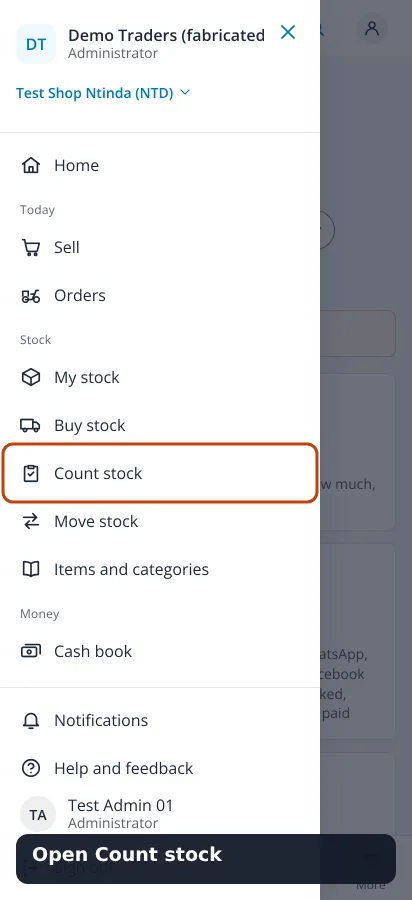
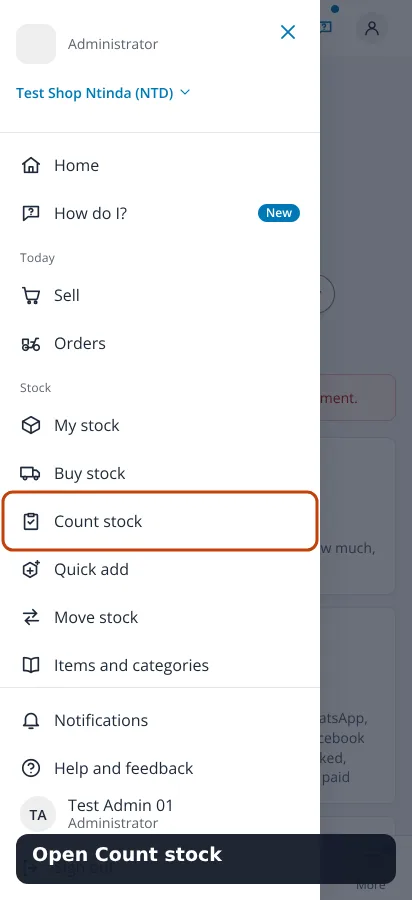
Issue #728: docs, pictures and the help article for where is my stock
The endpoint catalogue, the permission notes, FR-RET-08 and the retail UI
notes describe the unfinished counts, the stock at other shops and Save the
count. The Count stock help article and its pictures say Save the count.
Phone and laptop pictures in docs/ui/where-is-my-stock come from
scripts/where-is-my-stock-screenshots.mjs, which also checks the 48px
targets and that no page scrolls sideways.

diff --git a/frontend/src/areas/staff/retail/quick-add.dom.test.tsx b/frontend/src/areas/staff/retail/quick-add.dom.test.tsx
@@ -120,7 +120,7 @@ describe('quick add', () => {
     const [body, key] = quickAdd.mock.calls[0] as [Record<string, unknown>, string];
     expect(body).toEqual({ description: 'Test Bulb 60W', sell_minor: 6000, cost_minor: 4000, category_id: 'c1', unit_id: 'u1', qty: '600.000', branch_id: branch?.id });
     expect(key).toMatch(/^[0-9a-f-]{36}$/);
-    expect(screen.getByTestId('qa-done').textContent).toBe(`Added 600 pc at ${branchLabel(branch)}. Test Bulb 60W is saved.`);
+    expect(screen.getByTestId('qa-done').textContent).toBe(`Added 600 pcs at ${branchLabel(branch)}. Test Bulb 60W is saved.`);
     fireEvent.click(screen.getByRole('button', { name: 'Sell it' }));
     expect(onSell).toHaveBeenCalledWith('p1', branch?.id);
   });
@@ -176,7 +176,7 @@ describe('quick add', () => {
     expect(body).toEqual({ product_id: 'p9', qty: '8.000', branch_id: branch?.id });
     // The server answered the first request, so the second is a new one.
     expect(key).not.toBe((quickAdd.mock.calls[0] as [unknown, string])[1]);
-    expect(screen.getByTestId('qa-done').textContent).toBe(`Added 8 pc of Test Rice 1kg at ${branchLabel(branch)}. 58 pc there now.`);
+    expect(screen.getByTestId('qa-done').textContent).toBe(`Added 8 pcs of Test Rice 1kg at ${branchLabel(branch)}. 58 pcs there now.`);
     expect(screen.queryByTestId('qa-adds-to')).toBeNull();
   });
 
@@ -310,7 +310,7 @@ describe('quick add', () => {
     fireEvent.click(screen.getByRole('button', { name: 'Add' }));
     await screen.findByTestId('qa-done');
     expect((quickAdd.mock.calls[1] as [Record<string, unknown>])[0]).toMatchObject({ branch_id: branch?.id });
-    expect(screen.getByTestId('qa-done').textContent).toBe(`Added 10 pc at ${branchLabel(branch)}. Test Kettle is saved.`);
+    expect(screen.getByTestId('qa-done').textContent).toBe(`Added 10 pcs at ${branchLabel(branch)}. Test Kettle is saved.`);
   });
 
   it('offers Start again only after the server refused for certain, and it clears the form', async () => {
@@ -914,9 +914,10 @@ describe('the words and defaults', () => {
 
   // Issue #728: the line leads with where the stock went, so an owner looking at another shop knows where to find it.
   it('says what was added and where, and nothing about stock when none was added', () => {
-    expect(addedLine({ description: 'Test Bulb', unit: 'pc', item_made: true, qty: '600' }, 'Test Store')).toBe('Added 600 pc at Test Store. Test Bulb is saved.');
+    expect(addedLine({ description: 'Test Bulb', unit: 'piece', item_made: true, qty: '600' }, 'Test Store')).toBe('Added 600 pieces at Test Store. Test Bulb is saved.');
+    expect(addedLine({ description: 'Test Bulb', unit: 'piece', item_made: true, qty: '1' }, 'Test Store')).toBe('Added 1 piece at Test Store. Test Bulb is saved.');
     expect(addedLine({ description: 'Test Bulb', item_made: true }, 'Test Store')).toBe('Test Bulb added.');
-    expect(addedLine({ description: 'Test Bulb', unit: 'pc', item_made: false, qty: '10', total_qty: '60' }, 'Test Store')).toBe('Added 10 pc of Test Bulb at Test Store. 60 pc there now.');
+    expect(addedLine({ description: 'Test Bulb', unit: 'piece', item_made: false, qty: '10', total_qty: '60' }, 'Test Store')).toBe('Added 10 pieces of Test Bulb at Test Store. 60 pieces there now.');
   });
 });
 

diff --git a/frontend/src/areas/staff/retail/quick-add.tsx b/frontend/src/areas/staff/retail/quick-add.tsx
@@ -5,7 +5,7 @@ import { RETAIL_CURRENCY, RetailError, retail, type QuickAdd, type QuickAddReque
 import { IDEMPOTENCY_UNSURE_CODES } from '../../../api/retail-errors';
 import { branchLabel } from '../../../auth/branch';
 import { AddsTo } from '../branch-picker';
-import { WORDS } from '../../../app/glossary';
+import { WORDS, plural } from '../../../app/glossary';
 import { BusyButton } from '../../../app/ui/BusyButton';
 import { EmptyChoice } from '../../../app/ui/EmptyChoice';
 import { Field, FieldsNeededNote, focusFirstMissing } from '../../../app/ui/Field';
@@ -65,7 +65,7 @@ export function pieceUnit(units: Unit[]): Unit | undefined {
 export function addedLine(done: QuickAdd, where: string): string {
   const name = done.description ?? 'The item';
   if (done.qty === undefined) return `${name} added.`;
-  const of = (qty: string | undefined) => `${qty ?? ''} ${done.unit ?? ''}`.trim();
+  const of = (qty: string | undefined) => `${qty ?? ''} ${done.unit && Number(qty) !== 1 ? plural(done.unit) : (done.unit ?? '')}`.trim();
   return done.item_made ? `Added ${of(done.qty)} at ${where}. ${name} is saved.` : `Added ${of(done.qty)} of ${name} at ${where}. ${of(done.total_qty)} there now.`;
 }
 

diff --git a/frontend/src/app/ui/design-guard.test.ts b/frontend/src/app/ui/design-guard.test.ts
@@ -552,7 +552,8 @@ const ADD_IN_PLACE_EXEMPT: Record<string, string> = {
   'areas/staff/retail/account.tsx branches': BRANCH,
   'areas/staff/retail/purchasing-ui.tsx branches': BRANCH,
   'areas/staff/retail/return-new.tsx branches.filter((b) => b.stocks_goods !== false)': BRANCH,
-  'areas/staff/retail/quick-add.tsx places': `Where holds only the branches this person may add stock at; ${BRANCH}`,
+  // Issue #728: Quick add's Where became AddsTo, the shop beside How many with Change, shared with Add an item.
+  'areas/staff/branch-picker.tsx places': `Where holds only the branches this person may add stock at; ${BRANCH}`,
   'areas/staff/retail/catalogue-barcodes.tsx packs': ITEM_PACK,
   'areas/staff/retail/goods-receive.tsx line.packs': ITEM_PACK,
   'areas/staff/retail/purchase-order-form.tsx line.packs': ITEM_PACK,

diff --git a/frontend/src/areas/staff/retail/unfinished-counts.tsx b/frontend/src/areas/staff/retail/unfinished-counts.tsx
@@ -58,7 +58,8 @@ function UnfinishedCount({ count, branchId, onFinish, onThrown }: { count: OpenS
     },
   });
   return (
-    <div className="alert alert-warning stack" data-testid={`unfinished-${id}`}>
+    <div className="alert alert-warning" data-testid={`unfinished-${id}`}>
+      <div className="stack">
       <p>{unfinishedWords(count, me.user_id, businessZone())}</p>
       {asking ? (
         <div role="group" aria-label="Throw this count away?" className="stack">
@@ -77,6 +78,7 @@ function UnfinishedCount({ count, branchId, onFinish, onThrown }: { count: OpenS
         </p>
       )}
       <Problem error={drop.error} />
+      </div>
     </div>
   );
 }

diff --git a/frontend/src/areas/staff/retail/stocktake.dom.test.tsx b/frontend/src/areas/staff/retail/stocktake.dom.test.tsx
@@ -27,7 +27,8 @@ vi.mock('../../../api/retail', async (original) => {
     getStocktake: (...a: unknown[]) => getStocktake(...a), unfinishedStocktakes: (...a: unknown[]) => unfinishedStocktakes(...a) } };
 });
 const getStocktake = vi.fn();
-const unfinishedStocktakes = vi.fn(() => Promise.resolve([] as unknown[]));
+const unfinishedStocktakes = vi.fn();
+unfinishedStocktakes.mockResolvedValue([]);
 
 const { StocktakePage, StocktakeReview } = await import('./stocktake');
 

diff --git a/frontend/src/areas/staff/branch-picker.tsx b/frontend/src/areas/staff/branch-picker.tsx
@@ -195,6 +195,7 @@ export function AddsTo({ id, lead = 'Adds to', value, places, onChoose }: {
   return (
     <p className="adds-to" data-testid={`${id}-adds-to`}>
       <span>{lead} <strong>{name}</strong></span>
+      {/* empty: drawn only with more than one place to choose; the form shows its EmptyChoice when it has none. */}
       {onChoose && places.length > 1 && (
         <span className="btn adds-to-change">
           Change

diff --git a/docs/sdd/03-functional-requirements.md b/docs/sdd/03-functional-requirements.md
@@ -956,7 +956,7 @@ by `docs/specs/retail-pilot-data-dictionary.md`. `MVP` here is the retail first 
 | FR-RET-05 | A credit sale shall record the buyer and a proposed payment date. Payments against it reduce the trade debtor balance and may be partial. | A payment above the balance is refused; the sale balance and the debtors account move together. | MVP |
 | FR-RET-06 | A restock shall record the supplier and the quantity per branch. A cost and sell price on its lines update the product (the cost as its last price paid) and its price history in the same transaction as the movements, and the cost re-averages the receiving branch (FR-RET-69). | The latest restock line wins, including two lines for one product in one request; the history rows name the purchase. | MVP |
 | FR-RET-07 | Usage and damage reports shall reduce stock, record a reason and be valued at the branch's average cost at the time (ADR-079). | Each line carries its unit cost snapshot; the shrinkage journal equals the sum of the lines. | MVP |
-| FR-RET-08 | A stock-take shall record counted quantities per branch and product with the balance at the time of the count (`expected_qty`), show the variance, and on commit write an adjustment movement per line of counted less `expected_qty`, so sales, restocks, usage and voids recorded between count and commit stay in the balance. | Committing needs `retail.stocktake.commit`; the adjustment is applied under the balance lock; a sale between count and commit is not undone and posts no gain; when movements since the count would make the adjusted balance negative, the commit is refused with 409 `stock_moved_since_count` naming the lines to recount and nothing is written; a committed stock-take cannot be committed again. Only the items counted are sent: an item left empty is not counted and keeps its balance. On the review, a line that takes an item holding stock to 0 or to less than half of it says how much it removes and needs a tick before the count is committed (issue #629). The commit sends the product ids of the ticked lines, and the server refuses it with 409 `big_drop_not_acknowledged` naming the lines (the first five, then how many more, issue #656) while any such line is not among them, so a stale draft from another tab or a direct call never writes a big drop unasked (issue #636). A draft can be discarded without writing stock, by its maker or anyone who may count at its branch; a discarded count cannot be committed (409 `stocktake_discarded`), and a committed one cannot be discarded (issue #656). The count screen keeps each count on the device as it is typed, per business, branch and person, restores it when the page opens again, merges two tabs of the same count item by item, and sends nothing to the server before Review the difference; it never commits without the person's Commit the count (issue #681). | MVP |
+| FR-RET-08 | A stock-take shall record counted quantities per branch and product with the balance at the time of the count (`expected_qty`), show the variance, and on commit write an adjustment movement per line of counted less `expected_qty`, so sales, restocks, usage and voids recorded between count and commit stay in the balance. | Committing needs `retail.stocktake.commit`; the adjustment is applied under the balance lock; a sale between count and commit is not undone and posts no gain; when movements since the count would make the adjusted balance negative, the commit is refused with 409 `stock_moved_since_count` naming the lines to recount and nothing is written; a committed stock-take cannot be committed again. Only the items counted are sent: an item left empty is not counted and keeps its balance. On the review, a line that takes an item holding stock to 0 or to less than half of it says how much it removes and needs a tick before the count is committed (issue #629). The commit sends the product ids of the ticked lines, and the server refuses it with 409 `big_drop_not_acknowledged` naming the lines (the first five, then how many more, issue #656) while any such line is not among them, so a stale draft from another tab or a direct call never writes a big drop unasked (issue #636). A draft can be discarded without writing stock, by its maker or anyone who may count at its branch; a discarded count cannot be committed (409 `stocktake_discarded`), and a committed one cannot be discarded (issue #656). The count screen keeps each count on the device as it is typed, per business, branch and person, restores it when the page opens again, merges two tabs of the same count item by item, and sends nothing to the server before Review the difference; it never commits without the person's Save the count (issue #681; called Commit the count until issue #728). A draft left without saving is listed for its branch to anyone who may count there, and My stock and Count stock offer to finish it or, after a confirm, throw it away (issue #728). | MVP |
 | FR-RET-09 | Valuation shall show, per branch and product, the quantity times cost and the quantity times sell price, with totals. | Cost columns are absent for a user without `retail.profit.read`. | MVP |
 | FR-RET-10 | Daily profit per branch and day shall equal sale line totals less their cost snapshots less usage and damage at cost plus the net stock-take difference at cost (a loss is negative, a gain positive, shown as its own line on the day the stock-take is committed, #121), and be readable only with `retail.profit.read`. | Voided sales are excluded; profit is read from the append-only sale lines, not the sale header, and a changed header leaves it unchanged; with `credit_sale_recognition` `on_payment` the figures are those of the money received (FR-RET-42); a test with fabricated figures checks the arithmetic; a sales user gets 403. | MVP |
 | FR-RET-11 | Sales, their cost, restocks, usage, stock-take adjustments and voids shall post balanced entries to the right branch through `post_entry`, in the same transaction as the event. | One entry per branch per event; the database balance trigger holds; a void posts a reversing entry for each original entry. | MVP |

diff --git a/docs/sdd/07-api-design.md b/docs/sdd/07-api-design.md
@@ -1128,6 +1128,7 @@ branch when the permission's scope has exactly one; otherwise 422 `branch_requir
 | GET | `/retail/stock/movements` | `retail.stock.read` | `branch_id` (repeatable, scoped), `product_id`, `from`, `to`, `newest_first` (default false; reverses the order and the cursor), `limit`, `cursor`. Row: `{id, at, branch_id, product_id, kind, qty, unit_cost_minor*, source_type, source_id, reverses_movement_id, historical, note, by, correction?}`; `correction` is present on a quantity correction (issue #351): `{reason_code, old_qty, new_qty}`. A void of a restock is an `adjustment` of `source_type` `retail.purchase_void` |
 | POST | `/retail/stock/corrections` | `retail.stocktake.commit` at the branch | **M** (issue #351, ADR-044, FR-RET-46). `{branch_id, product_id, new_qty, expected_qty, reason_code: entry_mistake or miscount, note?}`: `new_qty` is the right quantity, not the difference, and `expected_qty` the quantity the form showed (409 `stock_moved` when the balance differs under its lock; 409 `stocktake_in_progress` while a draft stock-take of the branch counts the item). Under the balance row's lock posts one `adjustment` movement for the difference at the product's cost (source type `retail.stock_correction`), a `retail_stock_corrections` row, the ledger entry against inventory and stock shrinkage, and the audit entry `retail.stock.corrected`; 201 `{id, branch_id, product_id, code, description, old_qty, new_qty, reason_code, note, movement_id, at, by}`. 422 `quantity_unchanged`, `unknown_product`, `branch_not_stocking`; a missing `Idempotency-Key` is 422 `idempotency_key_missing`. Not shrinkage and not usage in any report. While stock corrections ask for approval (ADR-091) and the value of the difference at the branch's average cost reaches the amount: 202 `ApprovalWaiting {approval_id, action_type: retail_stock_correction, amount_minor, currency}` and the quantity is unchanged; on approval by an administrator (`core.settings.manage`) the correction runs in the maker's name only if the quantity is still `expected_qty`, else the request is stale with 409 `stock_moved` |
 | POST | `/retail/stocktakes` | `retail.stocktake.commit` | `{branch_id?, lines: [{product_id, counted_qty}], note?}`; returns each line's `expected_qty` and `variance_qty`. FR-RET-08 |
+| GET | `/retail/stocktakes/unfinished` | `retail.stocktake.commit` at the branch | Issue #728. `branch_id` (needed when the caller's scope covers more than one branch). The branch's draft counts, newest first, at most 20: `[{id, branch_id, created_at, created_by, lines}]`, `lines` the number of items counted. A branch outside the caller's `retail.stocktake.commit` scope is 404 `unknown_branch` |
 | GET | `/retail/stocktakes/{stocktake_id}` | `retail.stock.read` | Draft, committed or discarded |
 | POST | `/retail/stocktakes/{stocktake_id}/commit` | `retail.stocktake.commit` | Adjustment movements of counted less `expected_qty` (the variance when counted, so later movements stay in the balance), posted at cost; 409 `stocktake_committed`; 409 `stock_moved_since_count` when later movements would make an adjusted balance negative (recount those lines); the optional body `acknowledged` lists the product ids of the big drops ticked on the review (a count to 0, or to less than half, of an item holding stock), and 409 `big_drop_not_acknowledged` names any big drop missing from it, the first five and then how many more (issues #636, #656); 409 `stocktake_discarded` for a discarded count |
 | POST | `/retail/stocktakes/{stocktake_id}/discard` | `retail.stocktake.commit`; the count's maker, or at its branch | Issue #656. Ends a draft without writing stock (status `discarded`, audit `retail.stocktake.discarded`), so it no longer blocks a correction (`stocktake_in_progress`) or the closing of its branch. Idempotent: a discarded count is returned unchanged with no second audit entry. 409 `stocktake_committed` for a committed count; 404 for someone else's count at a branch outside the caller's `retail.stocktake.commit` scope |

diff --git a/docs/specs/retail-ui-notes.md b/docs/specs/retail-ui-notes.md
@@ -1572,7 +1572,7 @@ the items show only while you search, and go away once one is picked. Every item
   later discard never takes a draft whose commit is still on its way, so a connection that comes back between the two tries
   leaves the count to be sent again, and Sell opened again (the screen left and come back to, or a branch switch) leaves the
   commit of the Sell it replaced to land and stand (issue #664). A sale cleared or a screen left before the lost answer hears nothing of it.
-  Count stock shows a discarded count as cancelled, never as committed, with no tick and no Commit the count; the refusal of
+  Count stock shows a discarded count as cancelled, never as committed, with no tick and no Save the count; the refusal of
   a commit on it (409 `stocktake_discarded`) says cancelled too, so the owner reads one word for it (issue #664).
 - **Scan box.** Unchanged (ADR-070 decision 11, owner decision D7): a scanner types only into the Scan box, which adds the item or one more.
 - **Tours.** `retail-sales` version 16, `page-stocktake` 3 (the search on top and the list Not counted yet), `page-restock` 3, `page-usage` 2, `page-transfer` 3,
@@ -1802,3 +1802,27 @@ ADR-070, FR-RET-68, migration `V87`. Generic for every business; no capability s
   (`NextSteps`, `.next-steps`; a stack of full width buttons on a phone), each only for someone who may use it there.
 - The list, with who sees each button, is `docs/ui/next-steps.md`, the single source; `next-steps.dom.test.tsx` holds the code
   to it and fails on a success screen drawn with no next step.
+
+## Where is my stock (issue #728)
+
+A shop owner added his items with Quick add at his store, looked at My stock in his main shop, saw 0 and thought his numbers
+were lost; he also left two counts at Review the difference, because the last step said Commit. Pictures in
+`docs/ui/where-is-my-stock`.
+
+- **My stock and the item's page** say where an item is when the shop in use has none of it and another shop has some:
+  "0 here. 456 at Test Store", with **Switch to Test Store**, which changes the shop in use with the house toast (issue #680).
+  The other shops are those the all-branches stock list returns (cut by the server to the shops the person may read stock at)
+  that are in the person's own branch list; the one holding the most is named. A negative balance keeps its own flag.
+- **Quick add** shows the shop beside How many: "Adds to Test Store", with **Change** (the phone's own picker in one tap,
+  `AddsTo` in `branch-picker.tsx`, laid out as the shop under the title). Once added the line names it: "Added 70 pieces at Test
+  Store. Test bulb is saved." **Add an item** inside Count stock ("Counted at") and Sell ("Adds to", no Change: a sale keeps its
+  shop) shows the same line under its quantity; on Count stock Change switches the shop in use.
+- **Counts not saved.** A count reviewed and left without saving (a draft, `GET /retail/stocktakes/unfinished`) shows on My stock
+  and Count stock, to someone who may count at the shop: "You started a count here on 29 Oct and did not finish it" (today, or
+  a weekday within the week; "Someone" for another person's count), with **Finish it** (its review again, ready to save; from My
+  stock it opens `/staff/retail/stocktake?finish=<id>`) and **Throw it away**, which asks "Throw this count away? Your stock stays
+  as it is." with **Yes, throw it away** and **Keep it**. **Back to the count** throws away the review it leaves, so going back
+  and reviewing again never leaves a count behind; a count opened with Finish it stays as it was.
+- **Plain words.** The last step of a count, on Count stock and on Sell's count of a new item, is **Save the count**, with a help
+  tip: "Your stock changes only when you save the count." Review the difference stays the step before. The tour
+  `page-stocktake` is version 8.

diff --git a/docs/ui/where-is-my-stock/README.md b/docs/ui/where-is-my-stock/README.md
@@ -1,0 +1,17 @@
+# Where is my stock (issue #728)
+
+Taken on 30 Oct 2026 with the Vite dev server (`VITE_DEV_TENANT=demo VITE_RETAIL_MOCK=1`, the mock's fabricated items) and
+headless Chromium with reduced motion, on a phone at 412x900 and a laptop at 1366x900, by
+`frontend/scripts/where-is-my-stock-screenshots.mjs`, which also checks every new button is a 48px target and no page scrolls
+sideways. The item is added at the second branch with Quick add while the first is the shop in use, as the owner did.
+
+| File | What it shows |
+|---|---|
+| `01-quick-add-adds-to-*.png` | Quick add: under How many, "Adds to Test Branch B (BR2)" with Change, moved from the shop in use |
+| `02-quick-add-added-at-*.png` | Added: "Added 70 pieces at Test Branch B (BR2). Test Lamp Holder is saved." |
+| `03-my-stock-zero-here-*.png` | My stock at Test Branch A: the item says "0 here. 70 at Test Branch B" with Switch to Test Branch B |
+| `04-save-the-count-tip-*.png` | Count stock, Review the difference: the last button reads Save the count, its help tip open |
+| `05-my-stock-unfinished-count-*.png` | That count left without saving: My stock says "You started a count here today and did not finish it" with Finish it and Throw it away |
+| `06-throw-it-away-asks-*.png` | Throw it away asks first: Yes, throw it away or Keep it |
+| `07-finish-it-review-*.png` | Finish it from My stock opens Count stock at the review, ready to save |
+| `08-item-page-zero-here-*.png` | The item's page at Test Branch A: the same "0 here. 70 at Test Branch B" with the switch |

diff --git a/docs/sdd/08-security-design.md b/docs/sdd/08-security-design.md
@@ -696,6 +696,11 @@ Notes:
   `retail.purchase.voided`, `retail.stock.corrected` and `retail.product.updated` (with the old and new category) carry the reason.
 - Discarding a draft stock count (`POST /retail/stocktakes/{id}/discard`, issue #656) adds no permission: it needs `retail.stocktake.commit`, and
   the count is the caller's own or at a branch where they hold that permission (404 otherwise). The audit entry is `retail.stocktake.discarded`.
+- Listing a branch's unfinished counts (`GET /retail/stocktakes/unfinished`, issue #728) adds no permission: it needs
+  `retail.stocktake.commit` at that branch, the permission that saves or throws away a count there, so the screens offer Finish it and
+  Throw it away only to someone who may do both. My stock and the item's page name another shop holding an item ("0 here. 456 at Test
+  Store") only from the all-branches stock list, which the server cuts to the branches the caller may read with `retail.stock.read`;
+  the screen offers only shops in the caller's own branch list.
 - The entry warnings (issue #353, ADR-093, FR-RET-74 and FR-RET-75) add no permission, so the matrix is unchanged. `GET
   /retail/products/{id}/entry-norms` and `POST /retail/entry-warnings/confirmations` need `retail.stock.read`, which every retail role
   that enters stock or sales holds; the last selling price is in the norms only for a caller who sees prices (ADR-055), so a storekeeper
